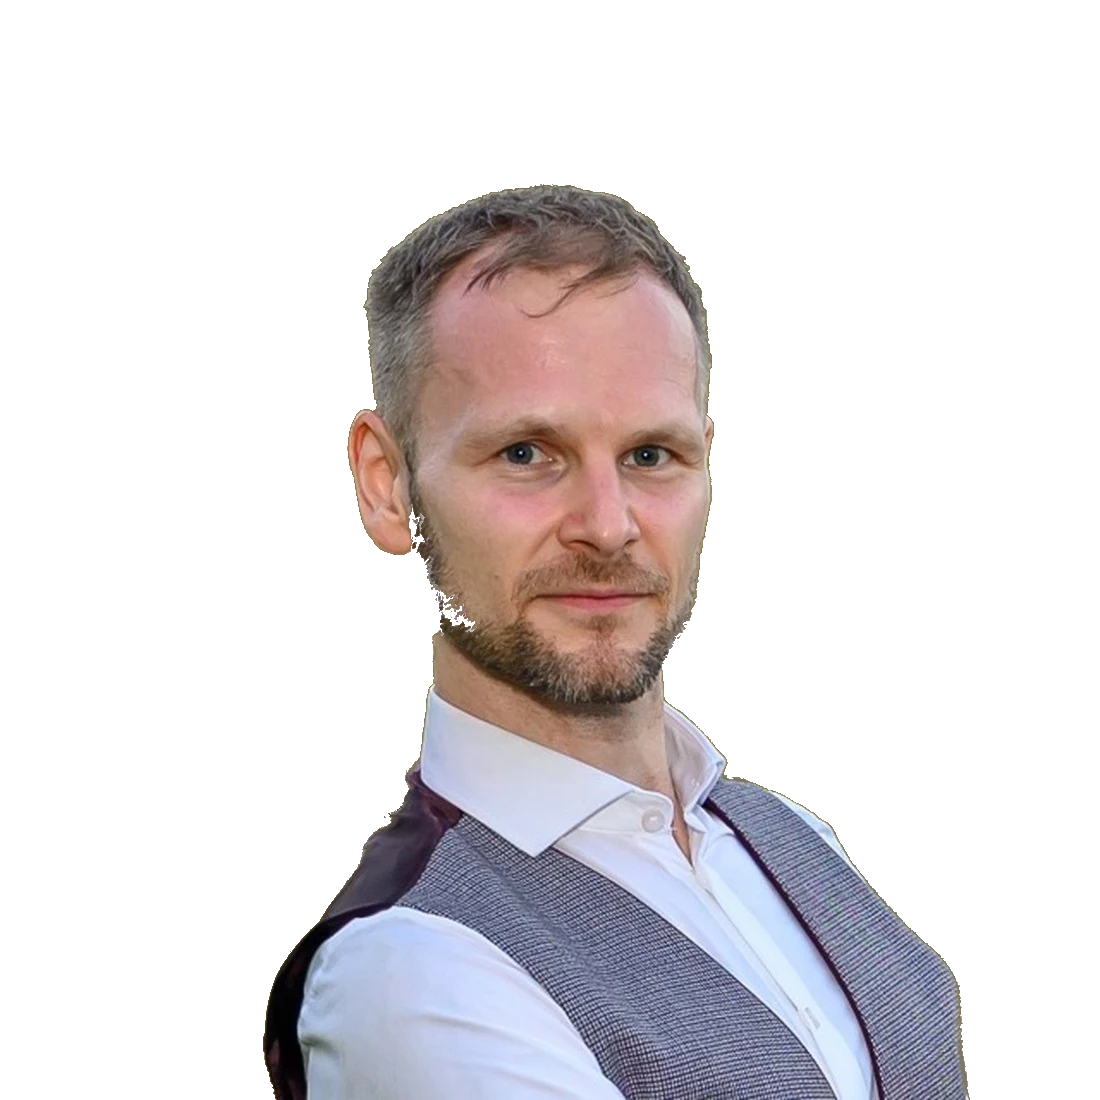
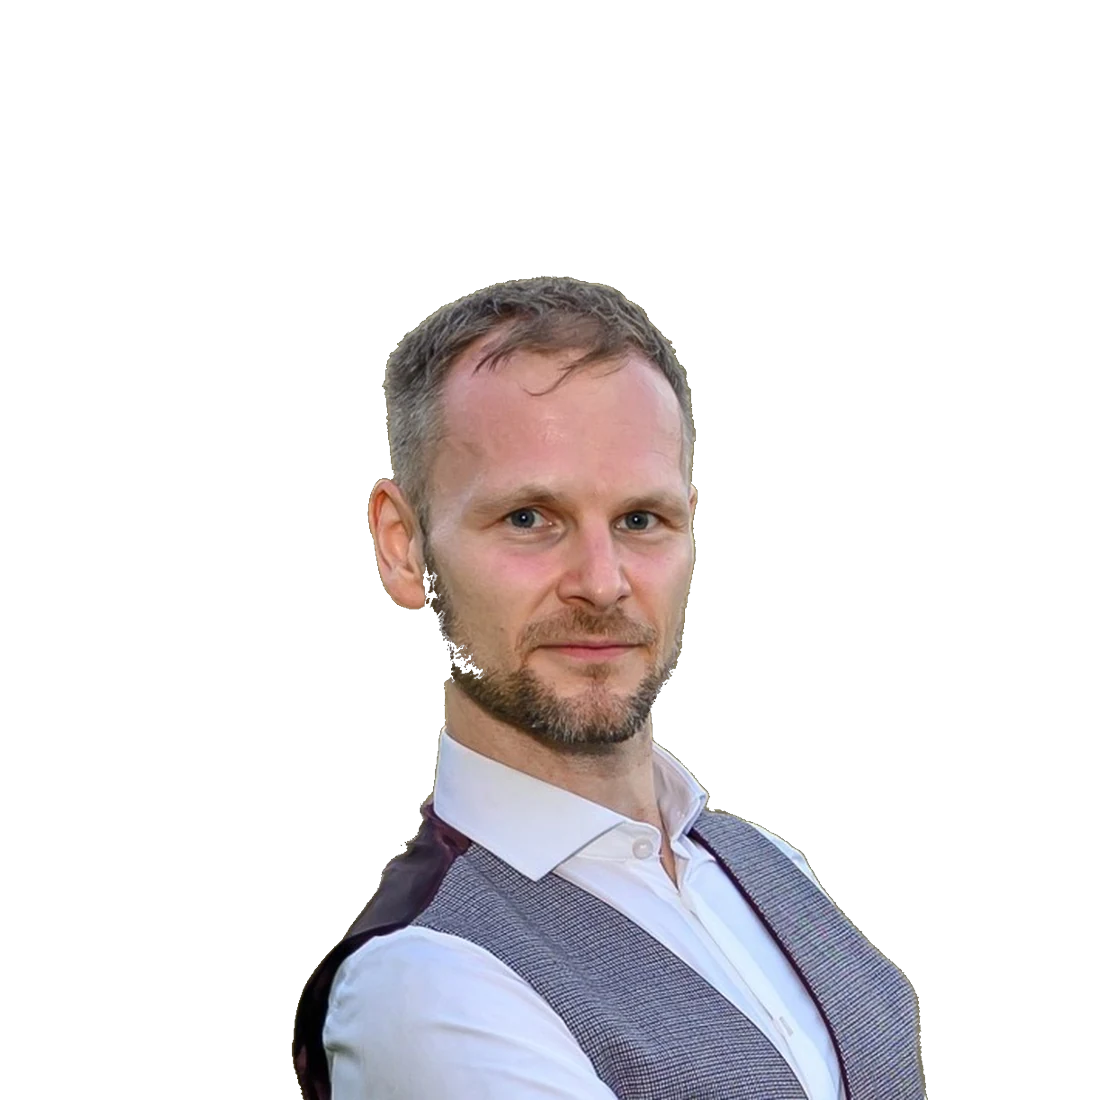
Galerie, mobilní menu a posazení fotky v tvaru
Galerie:
- Zavírací křížek neměl v CSS žádné umístění, takže ho flex vysadil vlevo
  od obrázku, přesně na šipku doleva. Obě tlačítka se překrývala. Křížek je
  teď v pravém horním rohu, kde s ním počítá i odsazení .lightbox-count.
- Šipky zasahovaly do obrázku. Na širokých obrazovkách si plocha nechává
  88 px na každé straně, na telefonu šipky sjely pod obrázek a ten si vzal
  celou šířku: z 291x412 na 351x496, tedy o 45 % větší plocha.
- Odkaz na PDF ležel na desktopu přes spodek certifikátu. Plocha se
  vystřeďovala přes celé okno bez ohledu na titulek a patu.
- Posun prstem na dotykových zařízeních: doleva a doprava listuje, nahoru
  nebo dolů zavírá. Tlačítka zůstávají. Dva prsty gesto ruší, aby zůstalo
  přiblížení certifikátu prohlížeči.

Mobilní menu se zavírá i kliknutím mimo a klávesou Escape. Klik dovnitř
menu mimo položku ho nechává otevřené.

Fotka v hlavičce: otáčející se tvar ořezával temeno, nad vlasy zbývalo
13 px. V CSS to řešit nejde, posunutý obrázek by kvůli protáčení kolem
vlastního středu začal obíhat. Osoba je proto přesazena v samotném
souboru na 90 % a o 55 px níž. Simulace otáčení po deseti stupních:
ořez z 722 px na 0, a to i s rezervou 12 px.

Changed region(s): [[0.2164, 0.1545, 0.8964, 1.0], [0.4018, 0.9273, 0.4327, 0.9582]]

diff --git a/css/style.css b/css/style.css
@@ -554,7 +554,9 @@ button { font: inherit; color: inherit; background: none; border: none; cursor: 
   display: none;
   align-items: center;
   justify-content: center;
-  padding: 32px;
+  /* Nahoře titulek s křížkem, dole odkaz na PDF a pás miniatur.
+     Bez tohoto odsazení se obrázek vystředil přes ně. */
+  padding: 68px 32px 160px;
   background: rgba(4, 8, 12, .88);
   backdrop-filter: blur(6px);
 }
@@ -582,8 +584,11 @@ button { font: inherit; color: inherit; background: none; border: none; cursor: 
 
 .lightbox-stage {
   display: flex; align-items: center; justify-content: center;
-  width: min(94vw, 1180px);
+  /* 176 = 2 × (20 odsazení + 44 tlačítko + 24 mezera). Šipky tak nikdy
+     nezasahují do obrázku, ani když je široký. */
+  width: min(100vw - 176px, 1180px);
   height: min(70vh, 760px);
+  max-height: 100%;   /* na nízkém okně se plocha smrskne, místo aby přetekla */
 }
 /* contain, protoze certifikaty maji ruzne pomery stran —
    na vysku i na sirku. Pevna vyska by u poloviny nechala prazdno. */
@@ -625,6 +630,22 @@ button { font: inherit; color: inherit; background: none; border: none; cursor: 
 .lightbox-nav svg { width: 20px; height: 20px; }
 .lightbox-prev { left: 20px; }
 .lightbox-next { right: 20px; }
+/* Zavírací křížek neměl žádné umístění, takže ho flex vysadil vlevo od fotky,
+   rovnou na šipku doleva. Patří do pravého horního rohu. Odsazení .lightbox-count
+   na right: 76px s ním počítá: 16 + 44 + 16. */
+.lightbox-close {
+  position: absolute; top: 16px; right: 16px;
+  width: 44px; height: 44px;
+  display: grid; place-items: center;
+  background: rgba(235, 219, 178, .10);
+  border: 1px solid rgba(235, 219, 178, .18);
+  border-radius: var(--radius);
+  color: #ebdbb2;
+  transition: background var(--t);
+  z-index: 2;
+}
+.lightbox-close:hover { background: rgba(235, 219, 178, .22); }
+.lightbox-close svg { width: 20px; height: 20px; }
 .lightbox-thumbs {
   position: absolute; bottom: 20px;
   display: flex; gap: 8px;
@@ -648,10 +669,18 @@ button { font: inherit; color: inherit; background: none; border: none; cursor: 
 .lightbox-thumbs img.aktivni { opacity: 1; border-color: var(--accent); }
 @media (max-width: 640px) {
   .lightbox-thumbs { display: none; }
-  .lightbox-open { bottom: 24px; }
-  .lightbox-stage { height: min(64vh, 620px); }
+  /* Vedle obrázku se šipky na telefonu nevejdou, aniž by ho zúžily zhruba
+     na dvě třetiny. Sjedou proto pod něj a obrázek si vezme celou šířku. */
+  .lightbox { padding: 68px 12px 96px; }
+  .lightbox-stage { width: calc(100vw - 24px); height: min(62vh, 620px); }
+  .lightbox-nav { top: auto; bottom: 18px; transform: none; }
+  .lightbox-prev { left: calc(50% - 58px); }
+  .lightbox-next { right: calc(50% - 58px); }
+  .lightbox-open { bottom: 76px; }
+  .lightbox-close { top: 12px; right: 12px; }
+  .lightbox-title { top: 22px; left: 16px; max-width: calc(100% - 160px); }
+  .lightbox-count { top: 22px; right: 68px; }
 }
-.lightbox-close svg { width: 20px; height: 20px; }
 
 /* ══════════════════ KONTAKT ══════════════════ */
 .contact-wrap {

diff --git a/js/main.js b/js/main.js
@@ -91,16 +91,28 @@ langToggle.addEventListener('click', spustPsani);
 /* ══════════ MOBILNÍ MENU ══════════ */
 const hamburger = document.getElementById('hamburger');
 const navLinks = document.getElementById('navLinks');
+
+function zavriMenu() {
+  navLinks.classList.remove('open');
+  hamburger.setAttribute('aria-expanded', 'false');
+}
+
 hamburger.addEventListener('click', () => {
   const open = navLinks.classList.toggle('open');
   hamburger.setAttribute('aria-expanded', open);
 });
-navLinks.querySelectorAll('a').forEach(a =>
-  a.addEventListener('click', () => {
-    navLinks.classList.remove('open');
-    hamburger.setAttribute('aria-expanded', 'false');
-  })
-);
+navLinks.querySelectorAll('a').forEach(a => a.addEventListener('click', zavriMenu));
+
+/* Kliknutí nebo klepnutí mimo menu ho zavře. Vlastní hamburger se přeskakuje,
+   jinak by si otevření hned zase zrušil, když událost probublá až sem. */
+document.addEventListener('click', e => {
+  if (!navLinks.classList.contains('open')) return;
+  if (e.target.closest && e.target.closest('#navLinks, #hamburger')) return;
+  zavriMenu();
+});
+document.addEventListener('keydown', e => {
+  if (e.key === 'Escape' && navLinks.classList.contains('open')) zavriMenu();
+});
 
 /* ══════════ AKTIVNÍ ODKAZ V MENU ══════════ */
 const sections = document.querySelectorAll('main section[id]');
@@ -220,6 +232,36 @@ lightbox.addEventListener('click', e => { if (e.target === lightbox) closeLightb
 document.addEventListener('keydown', e => {
   if (e.key === 'Escape' && lightbox.classList.contains('open')) closeLightbox();
 });
+
+/* ══════════ POSUN PRSTEM V GALERII ══════════ */
+/* Jen na dotykových zařízeních. Tlačítka zůstávají, tohle je jen zkratka:
+   doleva a doprava listuje, nahoru nebo dolů zavírá. */
+if (window.matchMedia('(pointer: coarse)').matches) {
+  const PRAH = 45;              /* kratší pohyb je klepnutí, ne gesto */
+  let zacX = 0, zacY = 0, zrusit = true;
+
+  lightbox.addEventListener('touchstart', e => {
+    /* Gesto začaté na tlačítku nechává klepnutí na pokoji. */
+    zrusit = e.touches.length > 1 || !!e.target.closest('button, a');
+    if (zrusit) return;
+    zacX = e.touches[0].clientX;
+    zacY = e.touches[0].clientY;
+  }, { passive: true });
+
+  /* Druhý prst znamená přiblížení certifikátu. To patří prohlížeči, ne nám. */
+  lightbox.addEventListener('touchmove', e => {
+    if (e.touches.length > 1) zrusit = true;
+  }, { passive: true });
+
+  lightbox.addEventListener('touchend', e => {
+    if (zrusit || !e.changedTouches.length) return;
+    const dx = e.changedTouches[0].clientX - zacX;
+    const dy = e.changedTouches[0].clientY - zacY;
+    if (Math.abs(dx) < PRAH && Math.abs(dy) < PRAH) return;
+    if (Math.abs(dx) > Math.abs(dy)) ukaz(aktualni + (dx < 0 ? 1 : -1));
+    else closeLightbox();
+  }, { passive: true });
+}
 
 /* ══════════ ROK VE FOOTERU ══════════ */
 document.getElementById('year').textContent = new Date().getFullYear();
